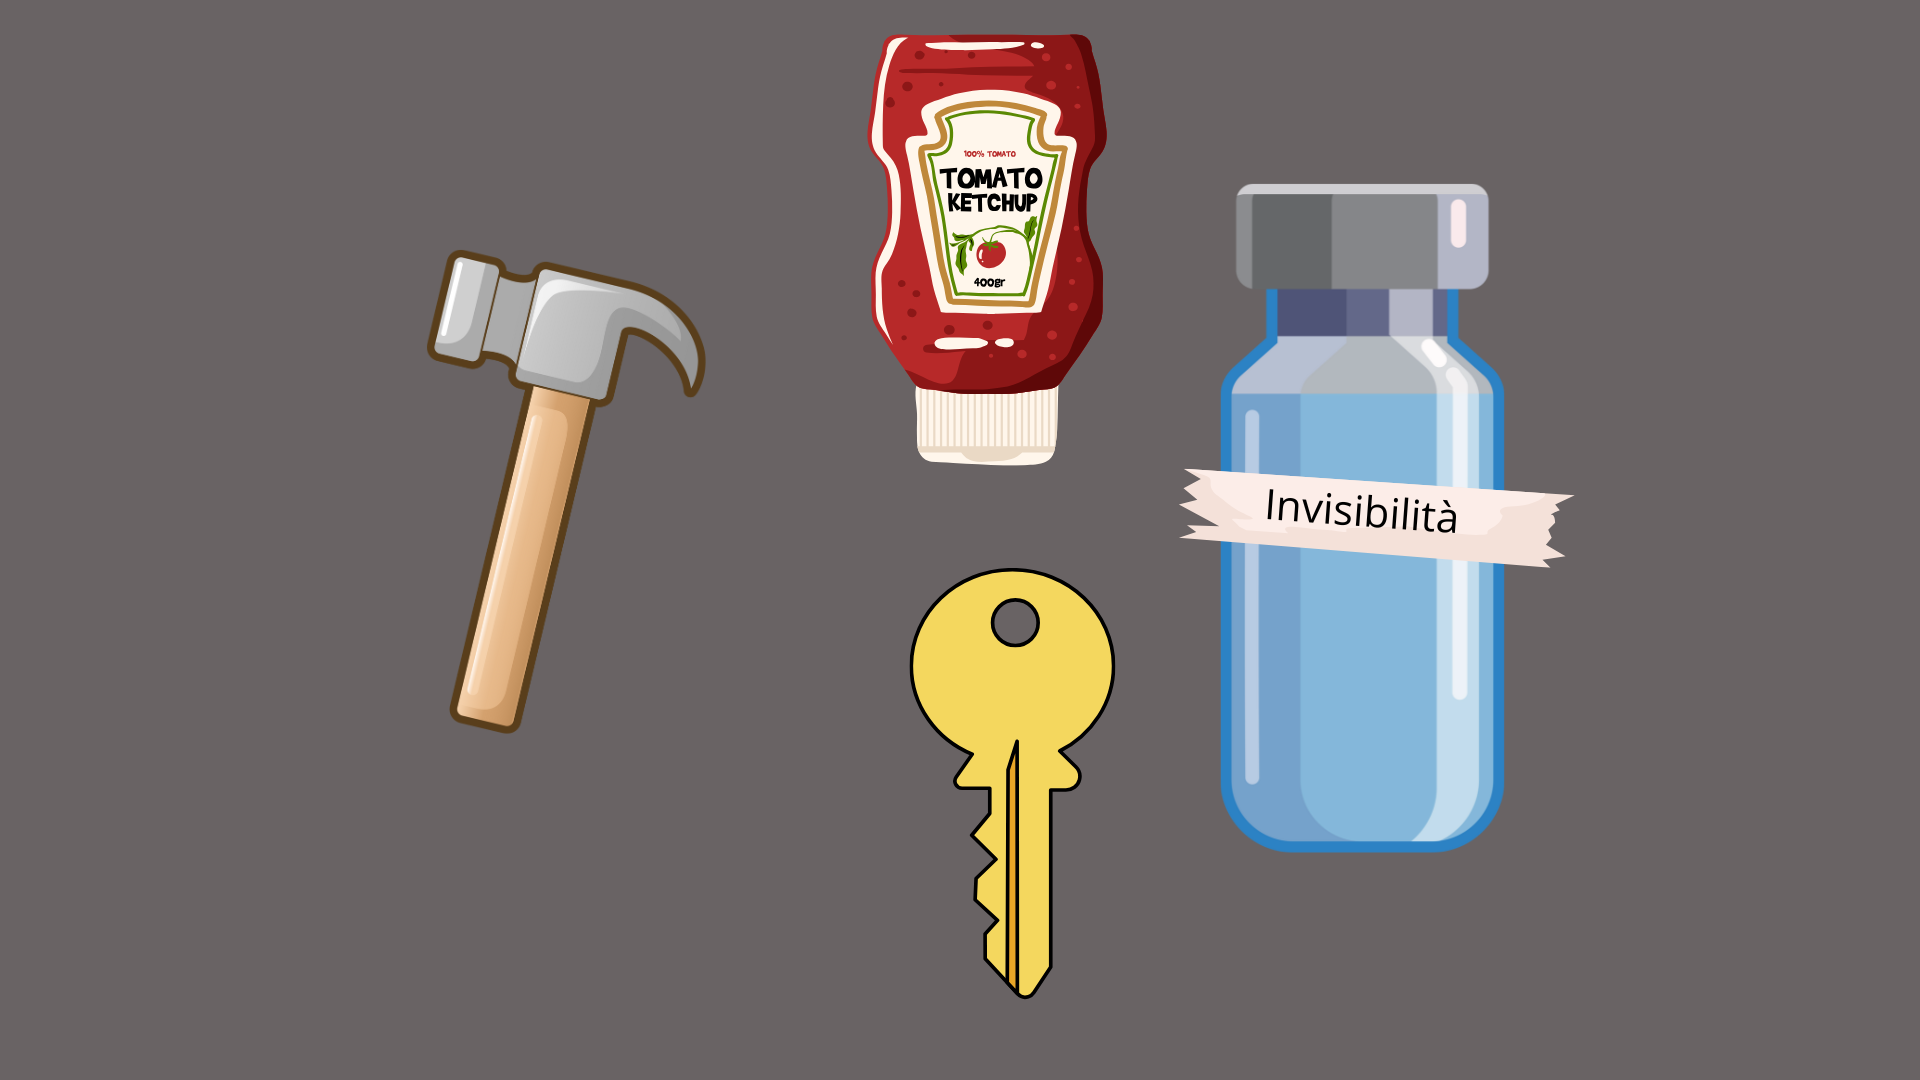
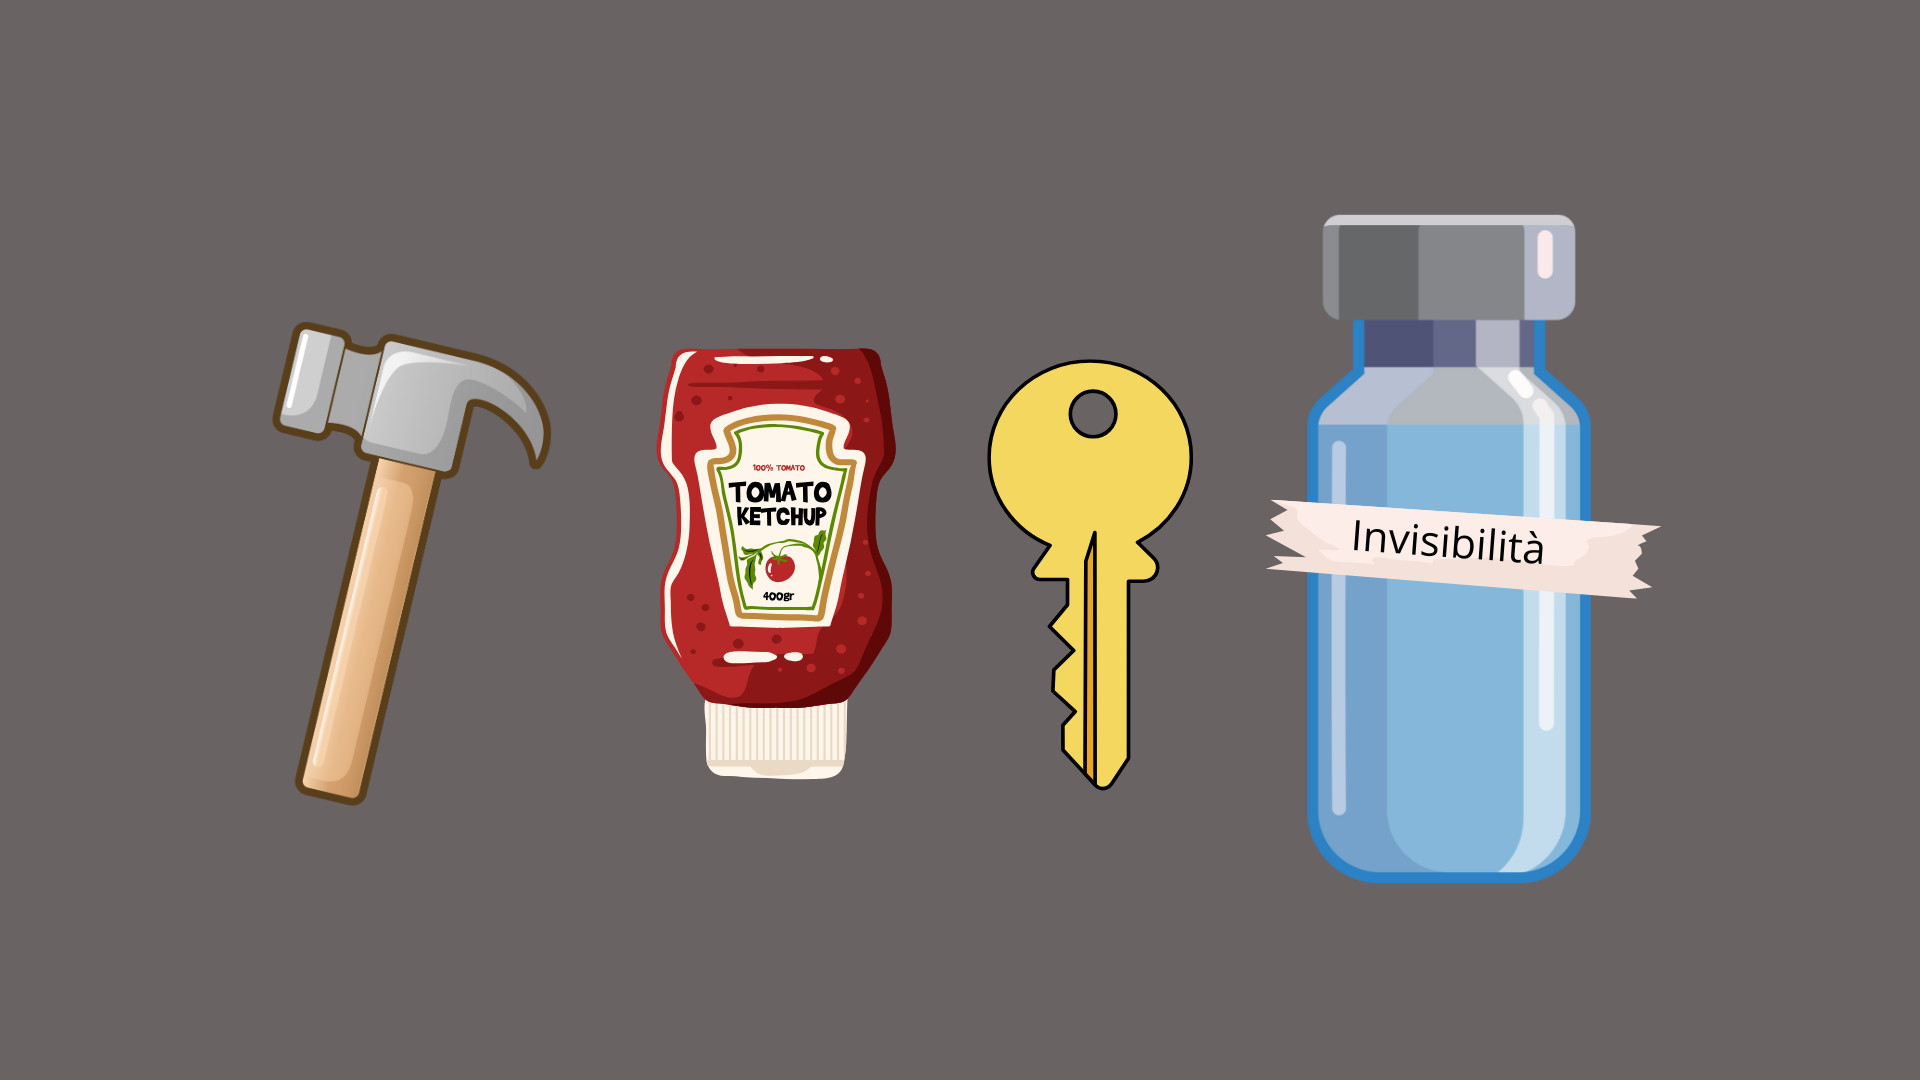
Aggiornata disposizione oggetti borsa

Changed region(s): [[0.125, 0.0306, 0.875, 0.9167]]

diff --git a/src/scenes/Scena6.jsx b/src/scenes/Scena6.jsx
@@ -11,7 +11,7 @@ import borsa from "@assets/images/Scena6/borsa.png";
 
 import enrico_russa from "@assets/sounds/scena6/male-snore-1-29322.mp3";
 import pdor_woosh from "@assets/sounds/scena6/fantasy-whoosh-intense-fast-228315.mp3";
-import cane_rabbioso from '@assets/woof.mp3';
+import cane_rabbioso from "@assets/woof.mp3";
 import pdor_busted from "@assets/sounds/scena6/trim-police-siren-sound-effect-317645.mp3";
 
 import chiave_rotta from "@assets/sounds/scena6/broken-bottle-191998.mp3";
@@ -19,7 +19,7 @@ import ketchup from "@assets/sounds/scena6/cartoon-splat-6086.mp3";
 import pozione from "@assets/sounds/scena6/magical-spell-cast-190272.mp3";
 import jail_door from "@assets/sounds/scena6/jaildoorclose-6173.mp3";
 import pdor_evil from "@assets/sounds/scena6/evil-laugh-21137.mp3";
-import stanza_ansia from '@assets/sounds/scena7/dungeon-sound-effect-240254.mp3';
+import stanza_ansia from "@assets/sounds/scena7/dungeon-sound-effect-240254.mp3";
 
 import Dialogue from "@components/Dialogue";
 import confetti from "canvas-confetti";
@@ -126,7 +126,6 @@ const Scena6 = () => {
       dogSound.currentTime = 0;
     }
   }, [scene, dogAnimation, dogClicked, hasDogFood]);
-
 
   //Rimuovi animazione di entrata cagnolino
   useEffect(() => {
@@ -275,7 +274,6 @@ const Scena6 = () => {
     }
   }, [scene, stanzaAnsia]);
 
-
   return (
     <section className="w-full h-svh flex flex-col items-center justify-center relative">
       {dogAnimation == 2 && (
@@ -366,11 +364,11 @@ const Scena6 = () => {
                   id: "Martello",
                   shape: "poly",
                   coords: [
-                    446, 712, 531, 385, 511, 380, 511, 359, 477, 354, 472, 366,
-                    439, 356, 426, 349, 455, 251, 499, 258, 502, 273, 517, 273,
-                    539, 275, 541, 261, 653, 293, 672, 312, 684, 324, 692, 342,
-                    699, 365, 695, 383, 689, 392, 680, 373, 672, 351, 646, 334,
-                    626, 331, 619, 354, 612, 383, 606, 397, 594, 397, 512, 732,
+                    301, 777, 335, 631, 377, 459, 360, 458, 360, 432, 332, 429,
+                    316, 436, 277, 426, 299, 322, 342, 332, 349, 346, 366, 346,
+                    377, 346, 391, 332, 508, 366, 533, 392, 545, 422, 542, 461,
+                    525, 439, 493, 410, 471, 405, 466, 431, 457, 463, 442, 470,
+                    362, 802, 347, 800, 303, 785,
                   ],
                   fillColor: "rgba(128, 128, 128, 0.5)",
                 },
@@ -378,11 +376,10 @@ const Scena6 = () => {
                   id: "Ketchup",
                   shape: "poly",
                   coords: [
-                    919, 456, 911, 387, 873, 324, 870, 268, 894, 225, 889, 190,
-                    884, 166, 870, 154, 879, 68, 892, 34, 1086, 36, 1106, 141,
-                    1087, 168, 1079, 195, 1080, 222, 1094, 253, 1104, 278, 1101,
-                    317, 1084, 337, 1067, 370, 1055, 390, 1057, 441, 1053, 463,
-                    1036, 468, 938, 466,
+                    708, 773, 706, 702, 679, 668, 662, 619, 666, 565, 681, 539,
+                    681, 490, 662, 465, 661, 409, 676, 351, 754, 353, 874, 349,
+                    895, 448, 874, 483, 874, 512, 885, 571, 896, 607, 881, 643,
+                    859, 675, 847, 700, 847, 729, 846, 770, 823, 778, 740, 778,
                   ],
                   fillColor: "rgba(128, 128, 128, 0.5)",
                 },
@@ -390,12 +387,12 @@ const Scena6 = () => {
                   id: "Chiave",
                   shape: "poly",
                   coords: [
-                    1030, 996, 1054, 970, 1056, 792, 1076, 787, 1081, 777, 1059,
-                    750, 1086, 734, 1105, 711, 1115, 673, 1112, 639, 1100, 607,
-                    1055, 576, 1009, 570, 958, 582, 923, 617, 911, 665, 928,
-                    716, 949, 738, 976, 758, 950, 787, 993, 789, 993, 816, 972,
-                    832, 994, 861, 974, 880, 972, 904, 996, 921, 982, 938, 987,
-                    961, 1018, 990,
+                    1105, 793, 1131, 753, 1130, 582, 1150, 580, 1157, 566, 1138,
+                    544, 1159, 526, 1182, 493, 1191, 448, 1177, 407, 1140, 373,
+                    1084, 356, 1035, 378, 1001, 415, 991, 451, 999, 497, 1023,
+                    524, 1048, 548, 1035, 570, 1045, 578, 1062, 578, 1070, 590,
+                    1069, 607, 1050, 624, 1065, 634, 1079, 649, 1070, 661, 1057,
+                    673, 1057, 688, 1076, 709, 1064, 727, 1061, 748,
                   ],
                   fillColor: "rgba(128, 128, 128, 0.5)",
                 },
@@ -403,14 +400,14 @@ const Scena6 = () => {
                   id: "Invisibilità",
                   shape: "poly",
                   coords: [
-                    1216, 799, 1220, 546, 1182, 543, 1186, 524, 1216, 521, 1186,
-                    512, 1191, 499, 1186, 487, 1189, 472, 1220, 475, 1225, 383,
-                    1262, 339, 1269, 289, 1247, 287, 1236, 283, 1238, 194, 1250,
-                    187, 1479, 183, 1491, 200, 1487, 277, 1474, 290, 1464, 314,
-                    1460, 329, 1469, 346, 1494, 370, 1504, 389, 1504, 487, 1572,
-                    497, 1560, 509, 1547, 521, 1552, 534, 1549, 545, 1564, 548,
-                    1554, 560, 1542, 572, 1496, 565, 1504, 793, 1487, 832, 1457,
-                    849, 1406, 858, 1364, 856, 1320, 855, 1264, 855,
+                    1354, 885, 1536, 885, 1575, 863, 1587, 826, 1585, 688, 1585,
+                    592, 1638, 597, 1648, 585, 1634, 578, 1636, 563, 1643, 554,
+                    1644, 541, 1660, 529, 1592, 522, 1590, 431, 1580, 393, 1546,
+                    368, 1543, 326, 1565, 319, 1580, 280, 1575, 215, 1493, 212,
+                    1331, 212, 1326, 224, 1317, 307, 1349, 322, 1353, 356, 1341,
+                    380, 1309, 412, 1305, 497, 1268, 500, 1290, 514, 1275, 519,
+                    1281, 529, 1268, 534, 1288, 553, 1275, 558, 1268, 571, 1314,
+                    576, 1305, 799, 1312, 846, 1332, 871,
                   ],
                   fillColor: "rgba(128, 128, 128, 0.5)",
                 },
@@ -441,7 +438,6 @@ const Scena6 = () => {
                     pdorBusted.volume = 0.7;
                     pdorBusted.play();
                   }, 1000);
-
                 } else {
                   // Play invisibility sfx
                   const obj_audio = new Audio(pozione);
